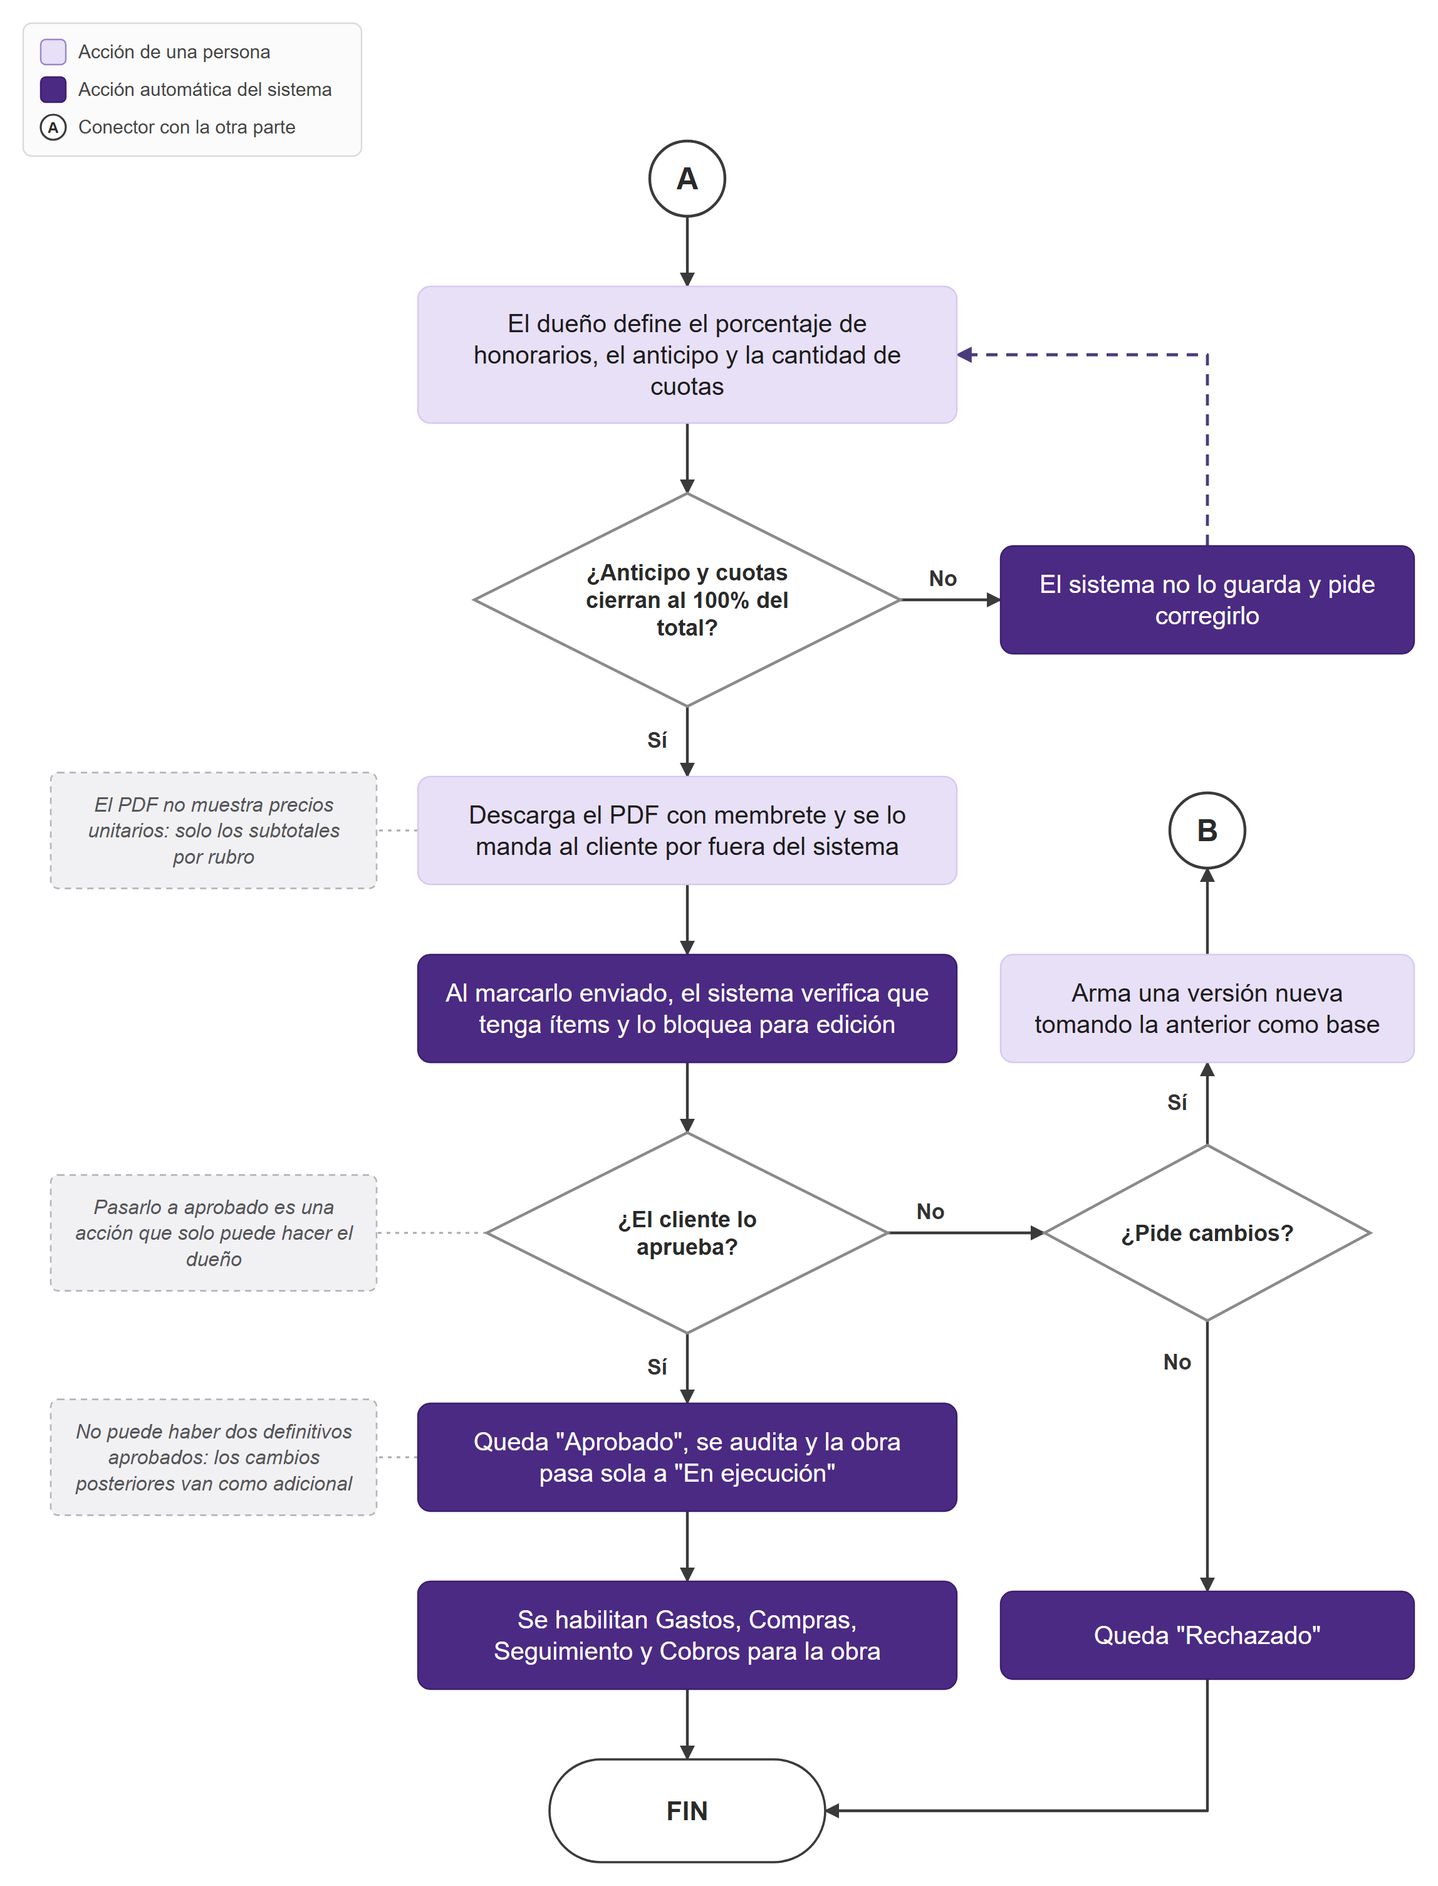
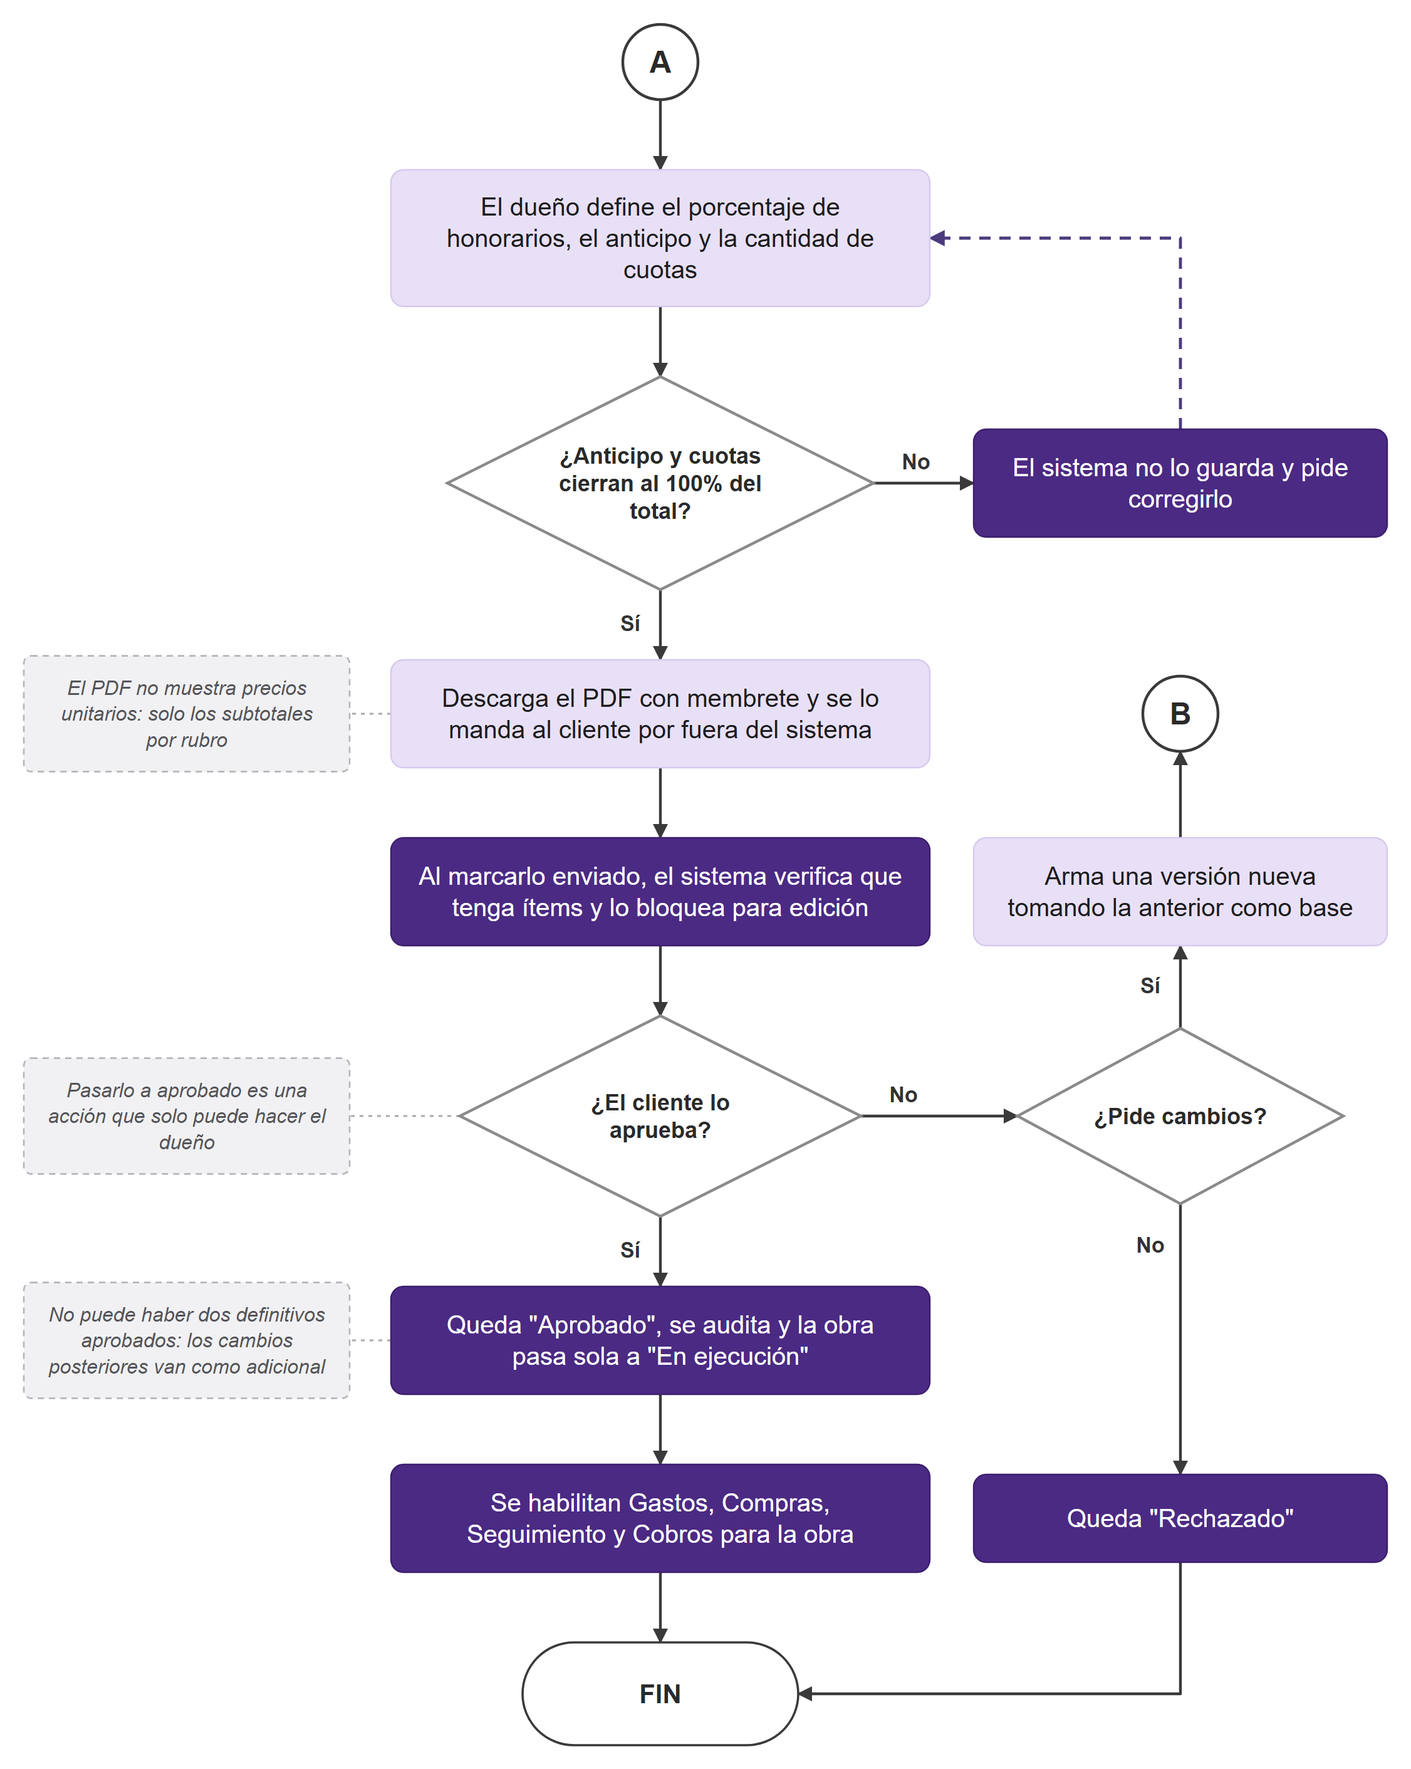
Diagramas del informe sin recuadro de referencias
Con SIN_LEYENDA=1 los diagramas salen sin el recuadro de referencias. Las
imagenes de para-informe/ quedan sin titulo y sin referencias, y referencias.py
arma una sola hoja con lo que significa cada simbolo por tipo de diagrama.
er_completo.py guardado redibuja con la ubicacion del informe.

diff --git a/docs/diagramas/informe/referencias.py b/docs/diagramas/informe/referencias.py
@@ -1,0 +1,144 @@
+# Hoja de referencias de todos los diagramas del informe.
+# Uso: python referencias.py   (genera referencias.svg y referencias.png)
+#
+# Los diagramas del informe van sin el recuadro de referencias (SIN_LEYENDA=1):
+# esta hoja junta en un solo lugar lo que significa cada simbolo, por tipo de
+# diagrama. Cada recuadro sale de la misma funcion que lo dibujaba dentro del
+# diagrama, asi que los simbolos son exactamente los mismos.
+import os
+from html import escape
+from types import SimpleNamespace, MethodType
+
+os.environ.pop('SIN_LEYENDA', None)
+
+from lucid import Diagram, render, text_w
+import casos_de_uso
+import dfd
+import er
+import flujos
+import gantt
+import relacional
+import secuencia_lib
+from clases import VIOLETA, GRIS
+
+TITULO = 24   # tamano del nombre de cada tipo de diagrama
+
+
+def caja_flujo():
+    d = Diagram(10, 10, '')
+    x, y, w, h = d.legend(0, 0, flujos.LEYENDA)
+    return '\n'.join(d.extra), w, h
+
+
+def caja_dfd():
+    d = SimpleNamespace(extra=[])
+    dfd.leyenda(d, 0, 0)
+    return '\n'.join(d.extra), 330, 150
+
+
+def caja_er():
+    d = SimpleNamespace(W=470, extra=[])
+    er.ER.leyenda(d)
+    return f'<g transform="translate(0,-16)">{d.extra[0]}</g>', 452, 180
+
+
+def caja_relacional():
+    d = SimpleNamespace(W=420)
+    d._marca = MethodType(relacional.Area._marca, d)
+    o = []
+    relacional.Area._leyenda(d, o)
+    return f'<g transform="translate(0,-18)">{"".join(o)}</g>', 400, 196
+
+
+def caja_gantt():
+    # En el diagrama es una fila; aca va en columna para que entre en la hoja
+    w = max(text_w('Etapa ' + n, 15) for n, _, _, _ in gantt.ETAPAS) + 70
+    h = len(gantt.ETAPAS) * 30 + 16
+    o = [f'<rect x="0" y="0" width="{w:.0f}" height="{h}" rx="7" fill="#fbfbfb" stroke="#dadada" stroke-width="1.2"/>']
+    for i, (nombre, col, _, _) in enumerate(gantt.ETAPAS):
+        o.append(f'<rect x="14" y="{15 + i * 30}" width="20" height="20" rx="4" fill="{col}"/>'
+                 f'<text x="44" y="{30 + i * 30}" font-size="15" fill="#444">Etapa {escape(nombre)}</text>')
+    return '\n'.join(o), w, h
+
+
+def caja_clases():
+    # Los diagramas de clases no tenian recuadro (la notacion se explica en el texto
+    # del informe). Se agrega aca para que la hoja cubra todos los diagramas.
+    filas = [
+        ('clase', 'Clase: nombre, atributos (-) y métodos de negocio (+)'),
+        ('gris', 'Clase de otra área: solo su nombre'),
+        ('asoc', 'Asociación, con la multiplicidad en cada extremo'),
+        ('comp', 'Composición: la clase del rombo es dueña de sus partes'),
+        ('ref', 'Referencia por identificador, sin relación entre clases'),
+    ]
+    w, h = 470, 8 + len(filas) * 46
+    o = [f'<rect x="0" y="0" width="{w}" height="{h}" rx="7" fill="#fbfbfb" stroke="#dadada" stroke-width="1.2"/>']
+    for i, (k, t) in enumerate(filas):
+        y = 24 + i * 46
+        if k == 'clase':
+            o.append(f'<rect x="14" y="{y-14}" width="44" height="36" fill="#fff" stroke="{VIOLETA}" stroke-width="1.8"/>'
+                     f'<line x1="14" y1="{y-2}" x2="58" y2="{y-2}" stroke="{VIOLETA}" stroke-width="1.4"/>'
+                     f'<line x1="14" y1="{y+10}" x2="58" y2="{y+10}" stroke="{VIOLETA}" stroke-width="1.4"/>')
+        elif k == 'gris':
+            o.append(f'<rect x="14" y="{y-12}" width="44" height="28" fill="#f4f4f6" stroke="{GRIS}" stroke-width="1.8" stroke-dasharray="6 3"/>')
+        elif k == 'asoc':
+            o.append(f'<line x1="14" y1="{y+2}" x2="58" y2="{y+2}" stroke="#3a3a3a" stroke-width="1.8"/>'
+                     f'<text x="14" y="{y-4}" font-size="11" font-weight="bold" fill="#3a3a3a">1</text>'
+                     f'<text x="58" y="{y-4}" font-size="11" font-weight="bold" fill="#3a3a3a" text-anchor="end">0..*</text>')
+        elif k == 'comp':
+            o.append(f'<polygon points="14,{y+2} 24,{y-4} 34,{y+2} 24,{y+8}" fill="#3a3a3a"/>'
+                     f'<line x1="34" y1="{y+2}" x2="58" y2="{y+2}" stroke="#3a3a3a" stroke-width="1.8"/>')
+        else:
+            o.append(f'<line x1="14" y1="{y+2}" x2="58" y2="{y+2}" stroke="#3a3a3a" stroke-width="1.8" stroke-dasharray="8 5"/>')
+        o.append(f'<text x="72" y="{y+7}" font-size="15" fill="#444">{escape(t)}</text>')
+    return '\n'.join(o), w, h
+
+
+def caja_simple(svg, w, h):
+    return svg, w, h
+
+
+SECCIONES = [
+    ('Diagrama de casos de uso', caja_simple(casos_de_uso.leyenda(0, 0), 300, 70)),
+    ('Diagrama de flujo', caja_flujo()),
+    ('Diagrama de flujo de datos (DFD)', caja_dfd()),
+    ('Diagrama de secuencia', caja_simple(secuencia_lib.leyenda(0, 0), 214, 84)),
+    ('Diagrama de clases', caja_clases()),
+    ('Diagrama entidad-relación', caja_er()),
+    ('Modelo relacional', caja_relacional()),
+    ('Diagrama de Gantt', caja_gantt()),
+]
+
+
+def armar():
+    margen, col_w, sep = 50, 560, 46
+    cols = [[], []]
+    alto = [0, 0]
+    # reparte las secciones en dos columnas, en orden, equilibrando la altura
+    for nombre, (svg, w, h) in SECCIONES:
+        c = 0 if alto[0] <= alto[1] else 1
+        cols[c].append((nombre, svg, w, h, alto[c]))
+        alto[c] += TITULO + 18 + h + sep
+    top = 120
+    W = margen * 2 + col_w * 2 + 40
+    H = int(top + max(alto) + margen - sep + 10)
+    o = [f'<rect width="{W}" height="{H}" fill="#ffffff"/>',
+         f'<text x="{margen}" y="64" font-size="34" font-weight="bold" fill="#2f2f2f">Referencias de los diagramas de SIGCO</text>',
+         f'<text x="{margen}" y="96" font-size="17" fill="#666">Qué significa cada símbolo, según el tipo de diagrama</text>']
+    for c, secciones in enumerate(cols):
+        x = margen + c * (col_w + 40)
+        for nombre, svg, w, h, y in secciones:
+            y += top
+            o.append(f'<text x="{x}" y="{y + TITULO}" font-size="{TITULO}" font-weight="bold" fill="#3d1a78">{escape(nombre)}</text>')
+            o.append(f'<g transform="translate({x},{y + TITULO + 14})">{svg}</g>')
+    svg = (f'<svg xmlns="http://www.w3.org/2000/svg" width="{W}" height="{H}" viewBox="0 0 {W} {H}" '
+           f'font-family="Arial, Helvetica, sans-serif">\n' + '\n'.join(o) + '\n</svg>')
+    return svg, W, H
+
+
+if __name__ == '__main__':
+    svg, W, H = armar()
+    with open('referencias.svg', 'w', encoding='utf-8') as f:
+        f.write(svg)
+    render('referencias.svg', 'referencias.png', W, H, 2)
+    print('referencias', W, H)

diff --git a/docs/diagramas/informe/secuencia_lib.py b/docs/diagramas/informe/secuencia_lib.py
@@ -4,7 +4,7 @@
 # su origen, las llamadas son flechas llenas y las respuestas, punteadas. Los
 # bloques "alt" y "opt" marcan los caminos alternativos, como en UML.
 from html import escape
-from lucid import text_w, wrap, render
+from lucid import text_w, wrap, render, sin_leyenda
 
 ESTILO = {
     'ui':   dict(fill='#e8e0f6', stroke='#b7a3e3', text='#2a1650', sub='#5b4a85'),
@@ -15,6 +15,16 @@ LINEA, RETORNO, VIDA = '#3a3a3a', '#55555a', '#b3b3b8'
 MARCO, MARCO_TAG = '#8a7fb0', '#ede8f7'
 BW, BH = 176, 58          # caja de cada participante
 FS = 15                   # tamano del texto de los mensajes
+
+
+def leyenda(lx, ly):
+    ley = [('ui', 'Pantalla (frontend)'), ('srv', 'Servidor (backend)'), ('data', 'Datos y archivos')]
+    o = [f'<rect x="{lx}" y="{ly}" width="214" height="{len(ley)*24+12}" rx="7" fill="#fbfbfb" stroke="#dadada"/>']
+    for i, (t, txt) in enumerate(ley):
+        e = ESTILO[t]
+        o.append(f'<rect x="{lx+12}" y="{ly+8+i*24}" width="16" height="16" rx="3" fill="{e["fill"]}" stroke="{e["stroke"]}"/>'
+                 f'<text x="{lx+36}" y="{ly+21+i*24}" font-size="13" fill="#444">{txt}</text>')
+    return ''.join(o)
 
 
 class Secuencia:
@@ -221,14 +231,8 @@ class Secuencia:
         for k in self.orden:
             self._participante(k, top_cajas, o_cajas)
             self._participante(k, abajo, o_cajas)
-        # leyenda
-        ley = [('ui', 'Pantalla (frontend)'), ('srv', 'Servidor (backend)'), ('data', 'Datos y archivos')]
-        lx = self.W - 230
-        o_fondo.append(f'<rect x="{lx}" y="14" width="214" height="{len(ley)*24+12}" rx="7" fill="#fbfbfb" stroke="#dadada"/>')
-        for i, (t, txt) in enumerate(ley):
-            e = ESTILO[t]
-            o_fondo.append(f'<rect x="{lx+12}" y="{22+i*24}" width="16" height="16" rx="3" fill="{e["fill"]}" stroke="{e["stroke"]}"/>'
-                           f'<text x="{lx+36}" y="{35+i*24}" font-size="13" fill="#444">{txt}</text>')
+        if not sin_leyenda():
+            o_fondo.append(leyenda(self.W - 230, 14))
         defs = (f'<defs><marker id="call" viewBox="0 0 12 12" refX="11" refY="6" markerWidth="11" markerHeight="11" markerUnits="userSpaceOnUse" orient="auto"><path d="M0,0 L12,6 L0,12 z" fill="{LINEA}"/></marker>'
                 f'<marker id="ret" viewBox="0 0 12 12" refX="11" refY="6" markerWidth="12" markerHeight="12" markerUnits="userSpaceOnUse" orient="auto"><path d="M1,1 L11,6 L1,11" fill="none" stroke="{RETORNO}" stroke-width="1.6"/></marker></defs>')
         titulo = '' if __import__('os').environ.get('SIN_TITULO') else f'<text x="40" y="52" font-size="30" font-weight="bold" fill="#2f2f2f">{escape(self.titulo)}</text>'

diff --git a/docs/diagramas/informe/casos_de_uso.py b/docs/diagramas/informe/casos_de_uso.py
@@ -5,7 +5,7 @@
 # suya) y el Dueno hace todo lo del Capataz General. Asi cada caso de uso se une
 # a un solo actor, el que lo agrega, y las asociaciones salen en abanico sin cruzarse.
 from html import escape
-from lucid import Diagram, C
+from lucid import Diagram, C, sin_leyenda
 
 W, H = 1360, 100
 AX = 118                       # actores con cuenta
@@ -15,6 +15,14 @@ VX = 1240                      # visitante
 UH = 66
 PITCH = 88
 BAND_GAP = 46
+
+
+def leyenda(lx, ly):
+    return (f'<rect x="{lx}" y="{ly}" width="300" height="70" rx="7" fill="#fbfbfb" stroke="#dadada" stroke-width="1.2"/>'
+            f'<circle cx="{lx+24}" cy="{ly+22}" r="7" fill="none" stroke="{C["actor"]}" stroke-width="2.2"/>'
+            f'<text x="{lx+44}" y="{ly+27}" font-size="15" fill="#444">Actor con cuenta en el sistema</text>'
+            f'<circle cx="{lx+24}" cy="{ly+50}" r="7" fill="none" stroke="{C["ext"]}" stroke-width="2.2"/>'
+            f'<text x="{lx+44}" y="{ly+55}" font-size="15" fill="#444">Actor sin cuenta</text>')
 
 
 def actor(d, x, y, nombre, sub=None, color=None):
@@ -115,12 +123,8 @@ def build():
     d.line('Visitante', 'vid', (VX - 28, vy - 16), (C2 + C2W / 2, vy), color='#8b8b90')
 
     # leyenda y nota
-    lx, ly = 24, 70
-    d.extra.append(f'<rect x="{lx}" y="{ly}" width="300" height="70" rx="7" fill="#fbfbfb" stroke="#dadada" stroke-width="1.2"/>'
-                   f'<circle cx="{lx+24}" cy="{ly+22}" r="7" fill="none" stroke="{C["actor"]}" stroke-width="2.2"/>'
-                   f'<text x="{lx+44}" y="{ly+27}" font-size="15" fill="#444">Actor con cuenta en el sistema</text>'
-                   f'<circle cx="{lx+24}" cy="{ly+50}" r="7" fill="none" stroke="{C["ext"]}" stroke-width="2.2"/>'
-                   f'<text x="{lx+44}" y="{ly+55}" font-size="15" fill="#444">Actor sin cuenta</text>')
+    if not sin_leyenda():
+        d.extra.append(leyenda(24, 70))
     d.note('nota', VX, d.nodes['gap']['y'] + 40, 'El cliente y el proveedor no usan el sistema: reciben el PDF del presupuesto y el pedido de cotización que el dueño les manda por fuera', w=210, size=15)
     d.H = int(by1 + 30)
     extra = [(x0, y0, x1, y1, n) for x0, y0, x1, y1, n in cajas]

diff --git a/docs/diagramas/informe/gantt.py b/docs/diagramas/informe/gantt.py
@@ -3,7 +3,7 @@
 # sumo tres tramos por modulo para que el diagrama se lea de corrido.
 from datetime import date, timedelta
 from html import escape
-from lucid import render, text_w
+from lucid import render, text_w, sin_leyenda
 
 INICIO = date(2026, 3, 2)          # lunes de la semana 1
 SEMANAS = 35                       # hasta el domingo 1 de noviembre
@@ -71,6 +71,16 @@ def dia(s):
     return date(2026, int(m), int(d))
 
 
+def leyenda(lx, y):
+    """Una fila con el color de cada etapa."""
+    o = []
+    for nombre, col, _, _ in ETAPAS:
+        o.append(f'<rect x="{lx}" y="{y}" width="16" height="16" rx="3" fill="{col}"/>')
+        o.append(f'<text x="{lx+24}" y="{y+13}" font-size="15" fill="#333">{escape(nombre)}</text>')
+        lx += 24 + text_w(nombre, 15) + 26
+    return '\n'.join(o)
+
+
 def build():
     filas = sum(len(a) for _, _, _, a in ETAPAS)
     top = 214
@@ -78,12 +88,8 @@ def build():
     o = [f'<rect width="{W}" height="{H}" fill="#faf9f6"/>',
          ('' if __import__('os').environ.get('SIN_TITULO') else f'<text x="36" y="58" font-size="38" font-weight="bold" fill="#1f1f1f">Diagrama de Gantt</text>'),
          ('' if __import__('os').environ.get('SIN_TITULO') else f'<text x="36" y="90" font-size="17" fill="#666">Proyecto terminado. Horas reales de la planilla de tiempos: 485 hs (estimadas: 450 hs)</text>')]
-    # leyenda
-    lx = 36
-    for nombre, col, _, _ in ETAPAS:
-        o.append(f'<rect x="{lx}" y="112" width="16" height="16" rx="3" fill="{col}"/>')
-        o.append(f'<text x="{lx+24}" y="125" font-size="15" fill="#333">{escape(nombre)}</text>')
-        lx += 24 + text_w(nombre, 15) + 26
+    if not sin_leyenda():
+        o.append(leyenda(36, 112))
     # meses y semanas
     for nombre, m in MESES:
         a = date(2026, m, 1)

diff --git a/docs/diagramas/informe/er_completo.py b/docs/diagramas/informe/er_completo.py
@@ -1,5 +1,6 @@
 # Diagrama entidad-relacion COMPLETO de SIGCO (notacion de Chen), en una sola figura.
-# Uso: python er_completo.py
+# Uso: python er_completo.py            (busca una ubicacion nueva, tarda varios minutos)
+#      python er_completo.py guardado   (redibuja con la ubicacion del informe)
 #
 # Son 26 entidades y 43 relaciones. Ubicarlas a mano sin cruces es muy dificil
 # (Obra se relaciona con 10 entidades y Usuario con 9), asi que la ubicacion la
@@ -243,6 +244,14 @@ def dibujar(pos):
 
 
 if __name__ == '__main__':
+    if sys.argv[1:] == ['guardado']:
+        # Dibuja con la ubicacion guardada (la del informe), sin volver a optimizar:
+        # una corrida nueva da otra ubicacion.
+        import json
+        from pathlib import Path
+        datos = json.loads((Path(__file__).parent / 'er_completo_pos.json').read_text(encoding='utf-8'))
+        dibujar({k: tuple(v) for k, v in datos.items()}).save('er-completo')
+        sys.exit()
     semillas = [int(a) for a in sys.argv[1:]] or list(range(6))
     resultados = []
     for s in semillas:

diff --git a/docs/diagramas/informe/er.py b/docs/diagramas/informe/er.py
@@ -16,7 +16,7 @@
 import math
 import sys
 from html import escape
-from lucid import Diagram, C, text_w, wrap
+from lucid import Diagram, C, text_w, wrap, sin_leyenda
 
 EW, EH = 200, 62          # entidad
 RW, RH = 158, 84          # rombo de relacion
@@ -100,8 +100,10 @@ class ER(Diagram):
                                color='#8a7fb0', lpos=None, kind='er', width=1.4))
 
     def leyenda(self):
+        if sin_leyenda():
+            return
         x, y = self.W - 470, 16
-        o = [f'<rect x="{x}" y="{y}" width="452" height="168" rx="7" fill="#fbfbfb" stroke="#dadada"/>',
+        o = [f'<rect x="{x}" y="{y}" width="452" height="180" rx="7" fill="#fbfbfb" stroke="#dadada"/>',
              f'<rect x="{x+14}" y="{y+14}" width="38" height="22" fill="#fff" stroke="{VIOLETA}" stroke-width="1.8"/>'
              f'<text x="{x+64}" y="{y+30}" font-size="14" fill="#444">Entidad</text>',
              f'<rect x="{x+150}" y="{y+14}" width="38" height="22" fill="#fff" stroke="#9a9aa2" stroke-width="1.8"/>'

diff --git a/docs/diagramas/informe/lucid.py b/docs/diagramas/informe/lucid.py
@@ -18,6 +18,11 @@ def _font(size, bold=False, italic=False):
 def text_w(t, size, bold=False, italic=False):
     return _font(size, bold, italic).getlength(t)
 
+def sin_leyenda():
+    """Con SIN_LEYENDA=1 los diagramas salen sin el recuadro de referencias: en el
+    informe va una sola hoja de referencias aparte (referencias.py)."""
+    return bool(os.environ.get('SIN_LEYENDA'))
+
 def wrap(text, size, maxw, bold=False, italic=False):
     lines = []
     for par in text.split('\n'):
@@ -257,6 +262,8 @@ class Diagram:
         """items: lista de (tipo, texto). tipo: 'user', 'sys', 'note' o un color."""
         w = w or max(text_w(t, size) for _, t in items) + 70
         h = len(items) * 30 + 16
+        if sin_leyenda():
+            return (x, y, w, h)
         out = [f'<rect x="{x}" y="{y}" width="{w:.0f}" height="{h}" rx="7" fill="#fbfbfb" stroke="#dadada" stroke-width="1.2"/>']
         for i, (k, t) in enumerate(items):
             cy = y + 23 + i * 30

diff --git a/docs/diagramas/informe/relacional.py b/docs/diagramas/informe/relacional.py
@@ -14,7 +14,7 @@ import os
 import subprocess
 import sys
 from html import escape
-from lucid import text_w, render
+from lucid import text_w, render, sin_leyenda
 
 PSQL = r'C:\Program Files\PostgreSQL\17\bin\psql.exe'
 HEAD, ROW = 38, 27
@@ -360,6 +360,8 @@ class Area:
             o.append(f'<circle cx="{x+d*17}" cy="{y}" r="5" fill="#ffffff" stroke="{LINEA}" stroke-width="1.6"/>')
 
     def _leyenda(self, o):
+        if sin_leyenda():
+            return
         x, y = self.W - 420, 18
         o.append(f'<rect x="{x}" y="{y}" width="400" height="196" rx="7" fill="#fbfbfb" stroke="#dadada"/>')
         filas = [('PK', 'Clave primaria'), ('FK', 'Clave foránea'), ('UQ', 'Valor único')]

diff --git a/docs/diagramas/informe/dfd.py b/docs/diagramas/informe/dfd.py
@@ -12,7 +12,7 @@
 import sys
 from collections import Counter
 from html import escape
-from lucid import Diagram, C, text_w
+from lucid import Diagram, C, text_w, sin_leyenda
 
 XE, XP, XS = 155, 690, 1180          # columnas: entidades, procesos, almacenes
 WE, WP, WS = 210, 280, 240
@@ -37,6 +37,8 @@ D = {
 
 
 def leyenda(d, x, y):
+    if sin_leyenda():
+        return
     o = [f'<rect x="{x}" y="{y}" width="330" height="150" rx="7" fill="#fbfbfb" stroke="#dadada"/>']
     o.append(f'<rect x="{x+14}" y="{y+14}" width="30" height="20" fill="#fff" stroke="{C["actor"]}" stroke-width="1.8"/>'
              f'<text x="{x+56}" y="{y+29}" font-size="14" fill="#444">Entidad externa</text>')
